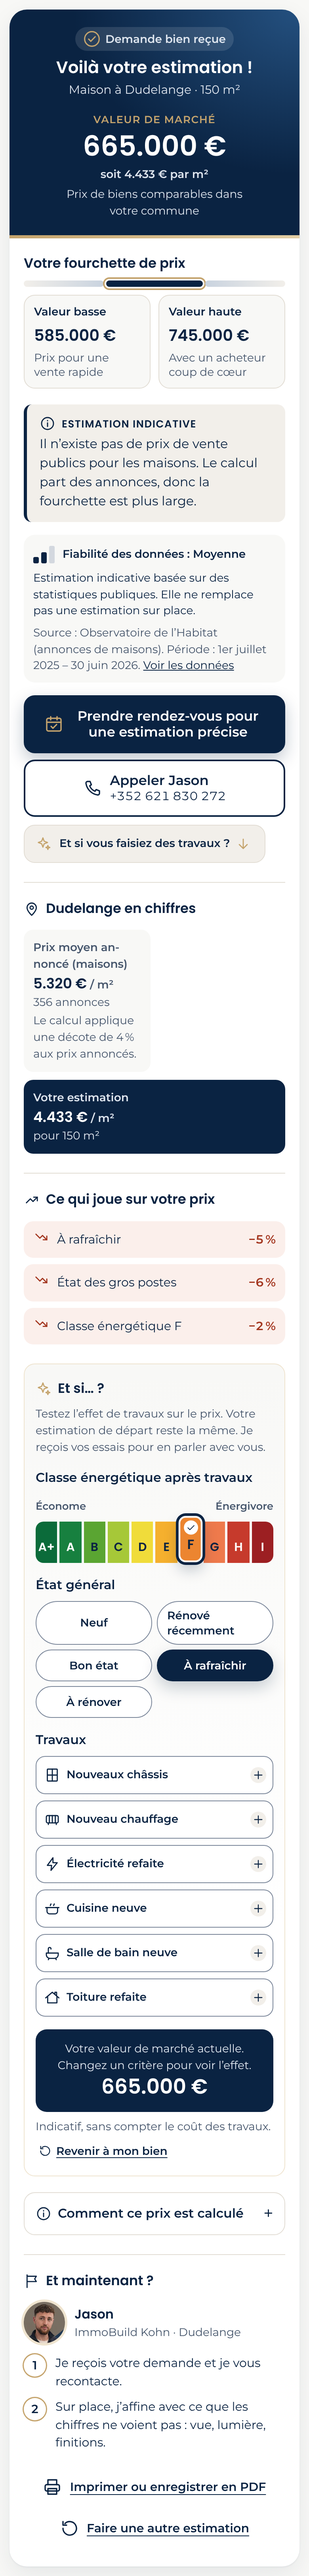
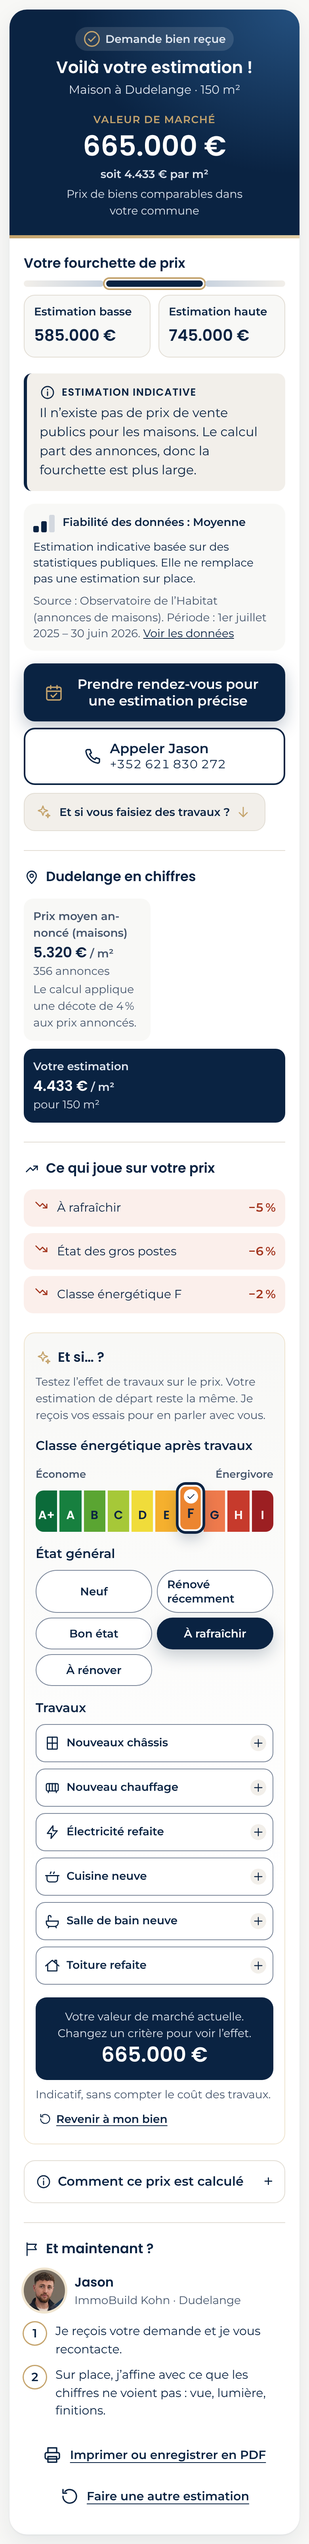
Fourchette « Estimation basse / haute » ; Jason un peu plus chaleureux ; fait sur le prêt climatique
- Libellés neutres (la fourchette est un écart fixe, pas une prévision de vente) dans l'outil et l'e-mail
- Garage, jardin, cave, maison : « Très bien » / « Super » réintroduits avec mesure
- Étape 2 : prêt climatique garanti par l'État (source guichet.lu, citation en commentaire)
65 tests, axe 0 erreur, bulles ≤ 3 lignes à 320 px (FR/DE/EN)

Claude-Session: https://claude.ai/code/session_01846hvutoHPqEEd264myZJw

diff --git a/estimation-widget/src/ui/result.ts b/estimation-widget/src/ui/result.ts
@@ -171,8 +171,8 @@ export function renderResult(r: PublicResult, t: T, lang: Lang, opts: ResultOpti
     <h3 id="range-title">${esc(t('result.rangeTitle'))}</h3>
     <div class="range-viz" aria-hidden="true"><span class="rv-low"></span><span class="rv-mid"></span><span class="rv-high"></span></div>
     <div class="values${r.high >= 1_000_000 ? ' values-wide' : ''}">
-      <div class="value-card value-low"><p class="value-label">${esc(t('result.low'))}</p><p class="value-amount">${eur(r.low)}</p><p class="value-text">${esc(t('result.lowText'))}</p></div>
-      <div class="value-card value-high"><p class="value-label">${esc(t('result.high'))}</p><p class="value-amount">${eur(r.high)}</p><p class="value-text">${esc(t('result.highText'))}</p></div>
+      <div class="value-card value-low"><p class="value-label">${esc(t('result.low'))}</p><p class="value-amount">${eur(r.low)}</p>${t('result.lowText') ? `<p class="value-text">${esc(t('result.lowText'))}</p>` : ''}</div>
+      <div class="value-card value-high"><p class="value-label">${esc(t('result.high'))}</p><p class="value-amount">${eur(r.high)}</p>${t('result.highText') ? `<p class="value-text">${esc(t('result.highText'))}</p>` : ''}</div>
     </div>
   </section>
   ${

diff --git a/estimation-widget/src/ui/facts.ts b/estimation-widget/src/ui/facts.ts
@@ -4,8 +4,9 @@ import { esc } from './html';
 const sources: Partial<Record<number, string>> = {
   // Observatoire de l’Habitat / STATEC, consulté le 18/11/2026 (seuil après sélection et traitements).
   1: 'https://data.public.lu/fr/datasets/prix-de-vente-des-appartements-par-commune/',
-  // Guichet.lu, consulté le 18/11/2026 (énergie primaire et chaleur de chauffage).
-  2: 'https://guichet.public.lu/fr/citoyens/logement/acquisition/performances-energie/demande-passeport-energetique.html',
+  // Guichet.lu, consulté le 18/11/2026 : « Un prêt climatique, garanti par l’État et proposé par les établissements
+  // bancaires agréés, peut contribuer au financement de vos travaux d’assainissement énergétique. »
+  2: 'https://guichet.public.lu/fr/citoyens/life-event/logement/performance-energetique-logement.html',
   // Observatoire de l’Habitat, consulté le 18/11/2026 (série séparée, hors annexes).
   4: 'https://data.public.lu/fr/datasets/prix-de-vente-des-appartements-prix-affines-hors-annexes-par-commune/',
   // Observatoire de l’Habitat, consulté le 18/11/2026 (loyers demandés avant négociation).

diff --git a/estimation-widget/src/shared/email.ts b/estimation-widget/src/shared/email.ts
@@ -109,9 +109,9 @@ export function leadSections(s: Submission, e: Estimate, date: Date): Section[] 
       rows:
         r.status === 'ok'
           ? [
-              ['Valeur basse (vente rapide)', eur(r.low)],
+              ['Estimation basse', eur(r.low)],
               ['Valeur de marché', eur(r.market)],
-              ['Valeur haute (coup de cœur)', eur(r.high)],
+              ['Estimation haute', eur(r.high)],
               ['Fourchette', `± ${(r.spread! * 100).toFixed(0)} %${r.indicative ? ' – mention « indicative » affichée' : ''}`],
             ]
           : [['Résultat', `Pas de prix affiché (« Je vous recontacte avec une estimation personnalisée »). Raison : ${e.reason}`]],

diff --git a/estimation-widget/tests/result-view.test.ts b/estimation-widget/tests/result-view.test.ts
@@ -22,9 +22,9 @@ describe('Écran de résultat', () => {
     const html = renderResult(r, translator('fr'), 'fr', '#');
     expect(html).not.toContain('data-testid="indicative"');
     expect(html).toContain('Elle ne remplace pas une estimation sur place.');
-    expect(html).toContain('Prix pour une vente rapide');
+    expect(html).toContain('Estimation basse');
     expect(html).toContain('Prix de biens comparables dans votre commune');
-    expect(html).toContain('Avec un acheteur coup de cœur');
+    expect(html).toContain('Estimation haute');
   });
 
   it('Commune sans données : pas de prix, message de recontact', () => {
